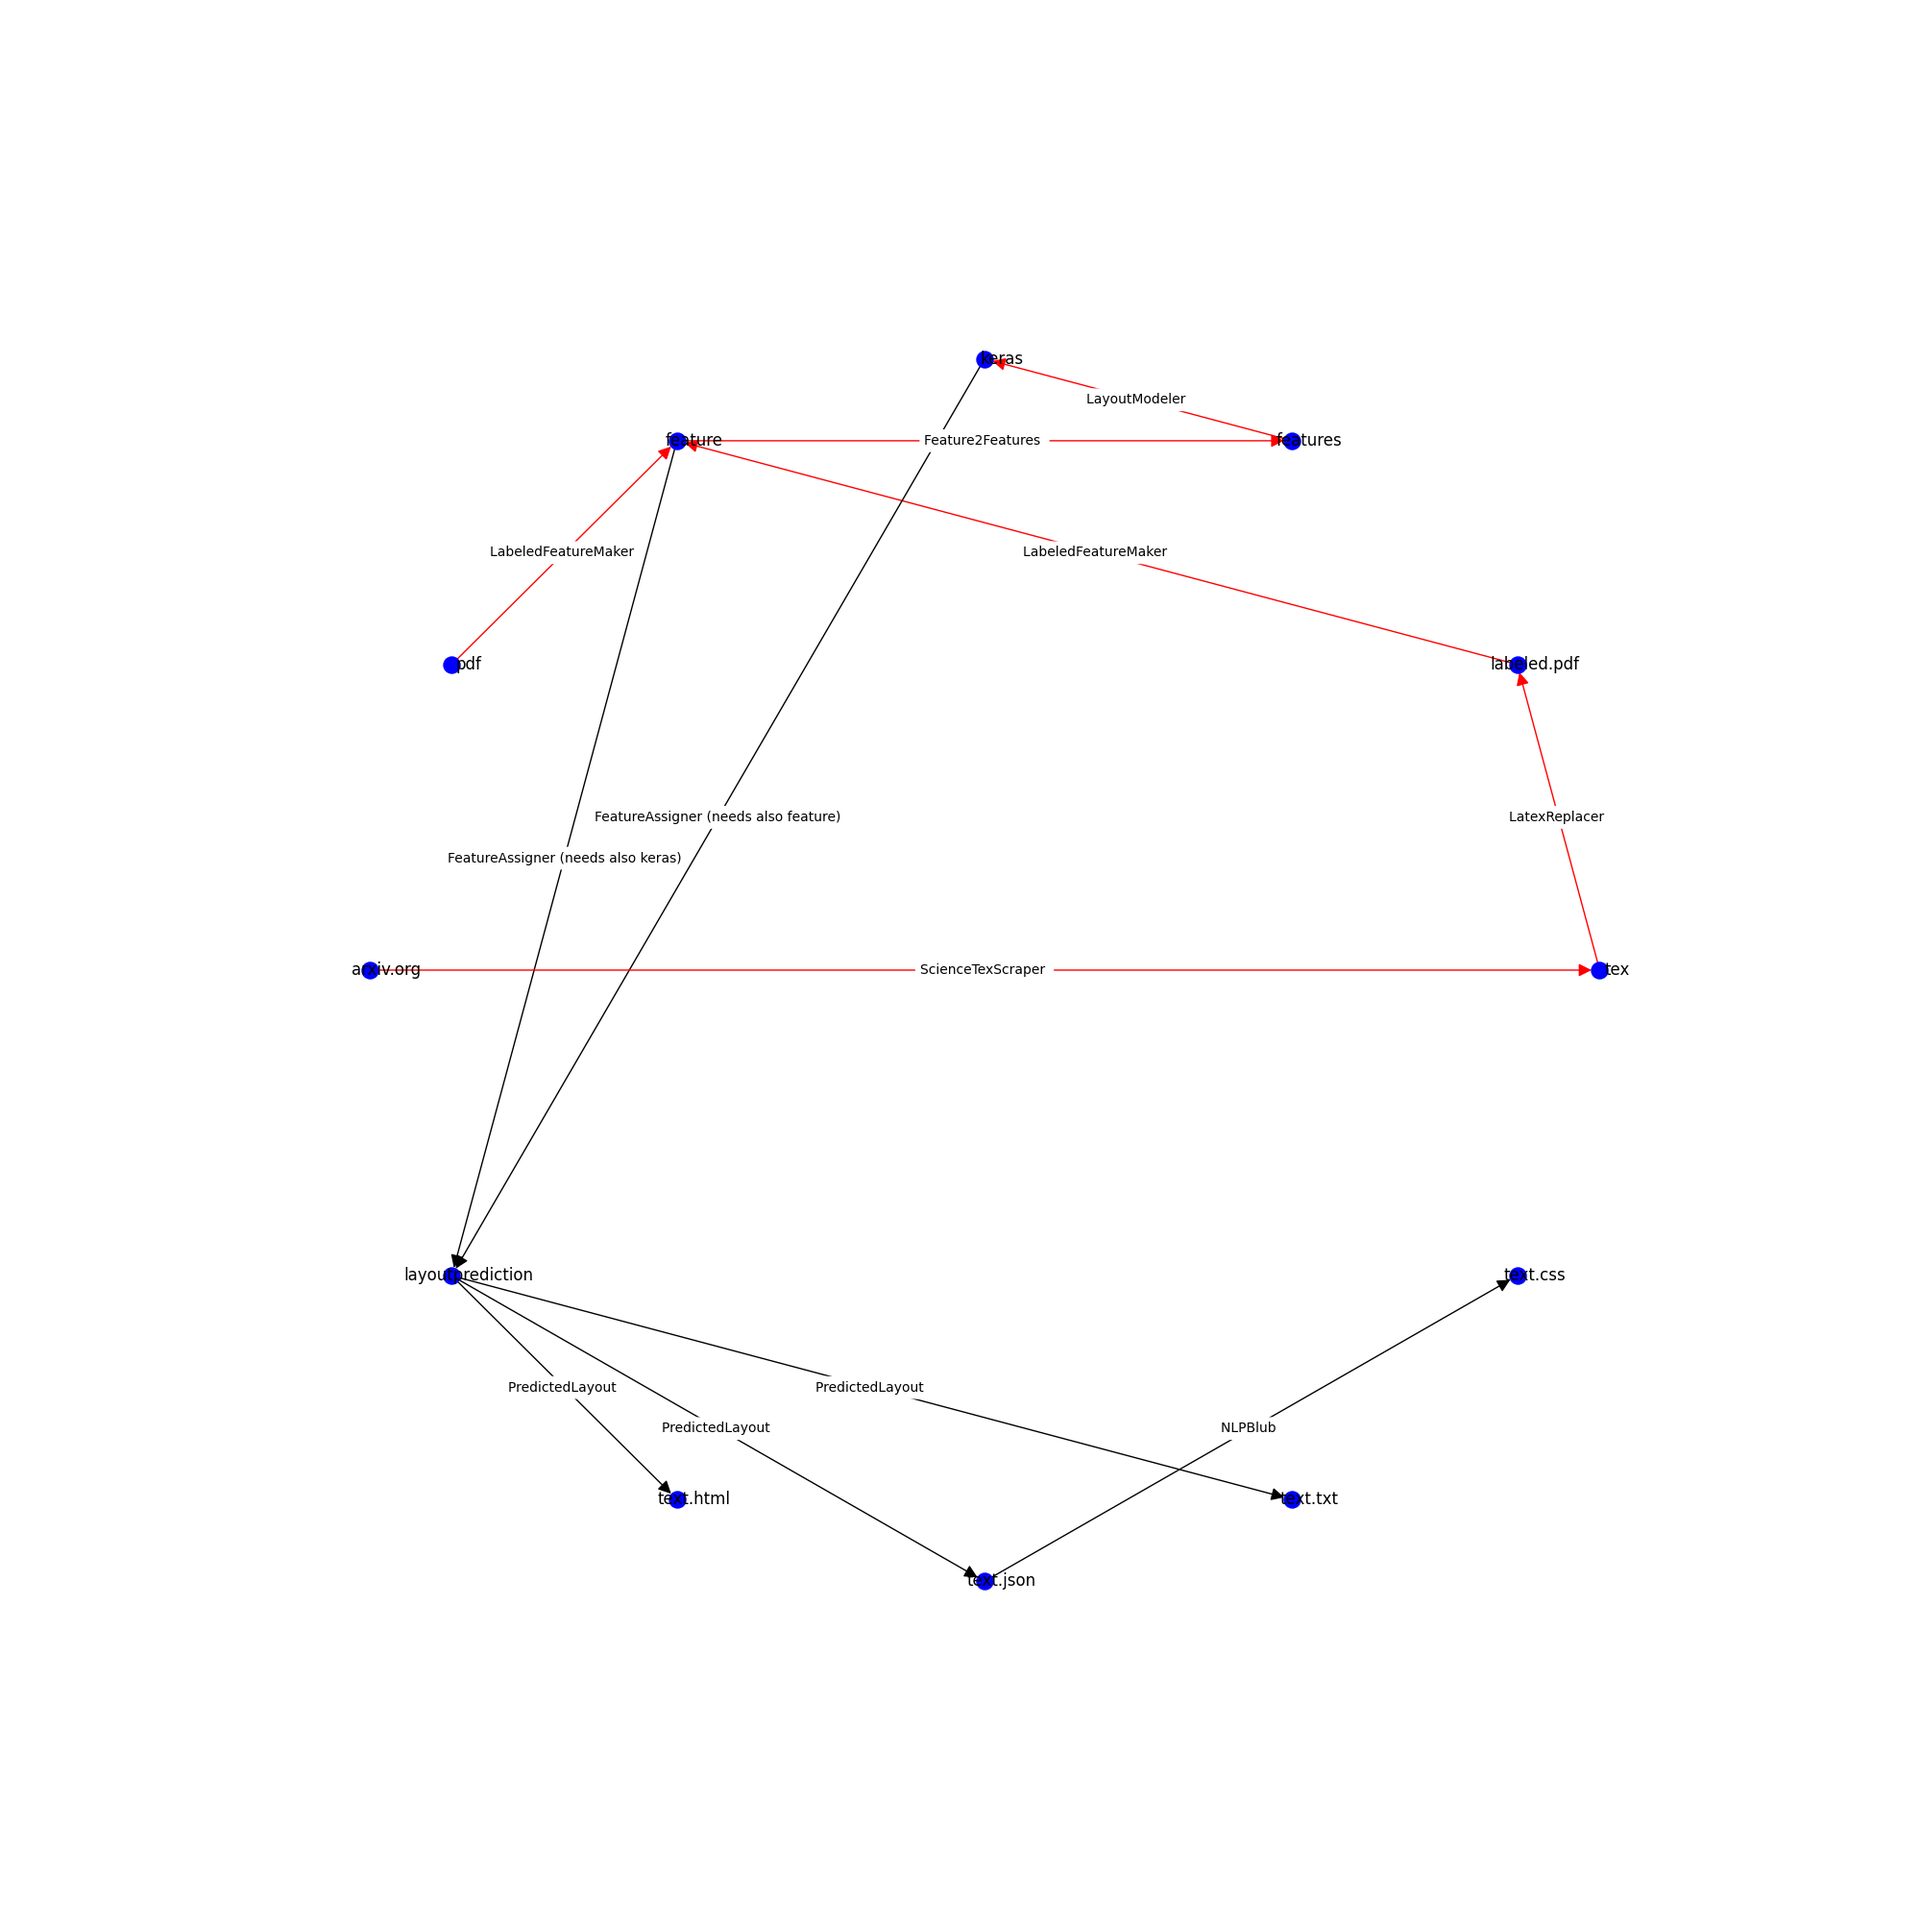
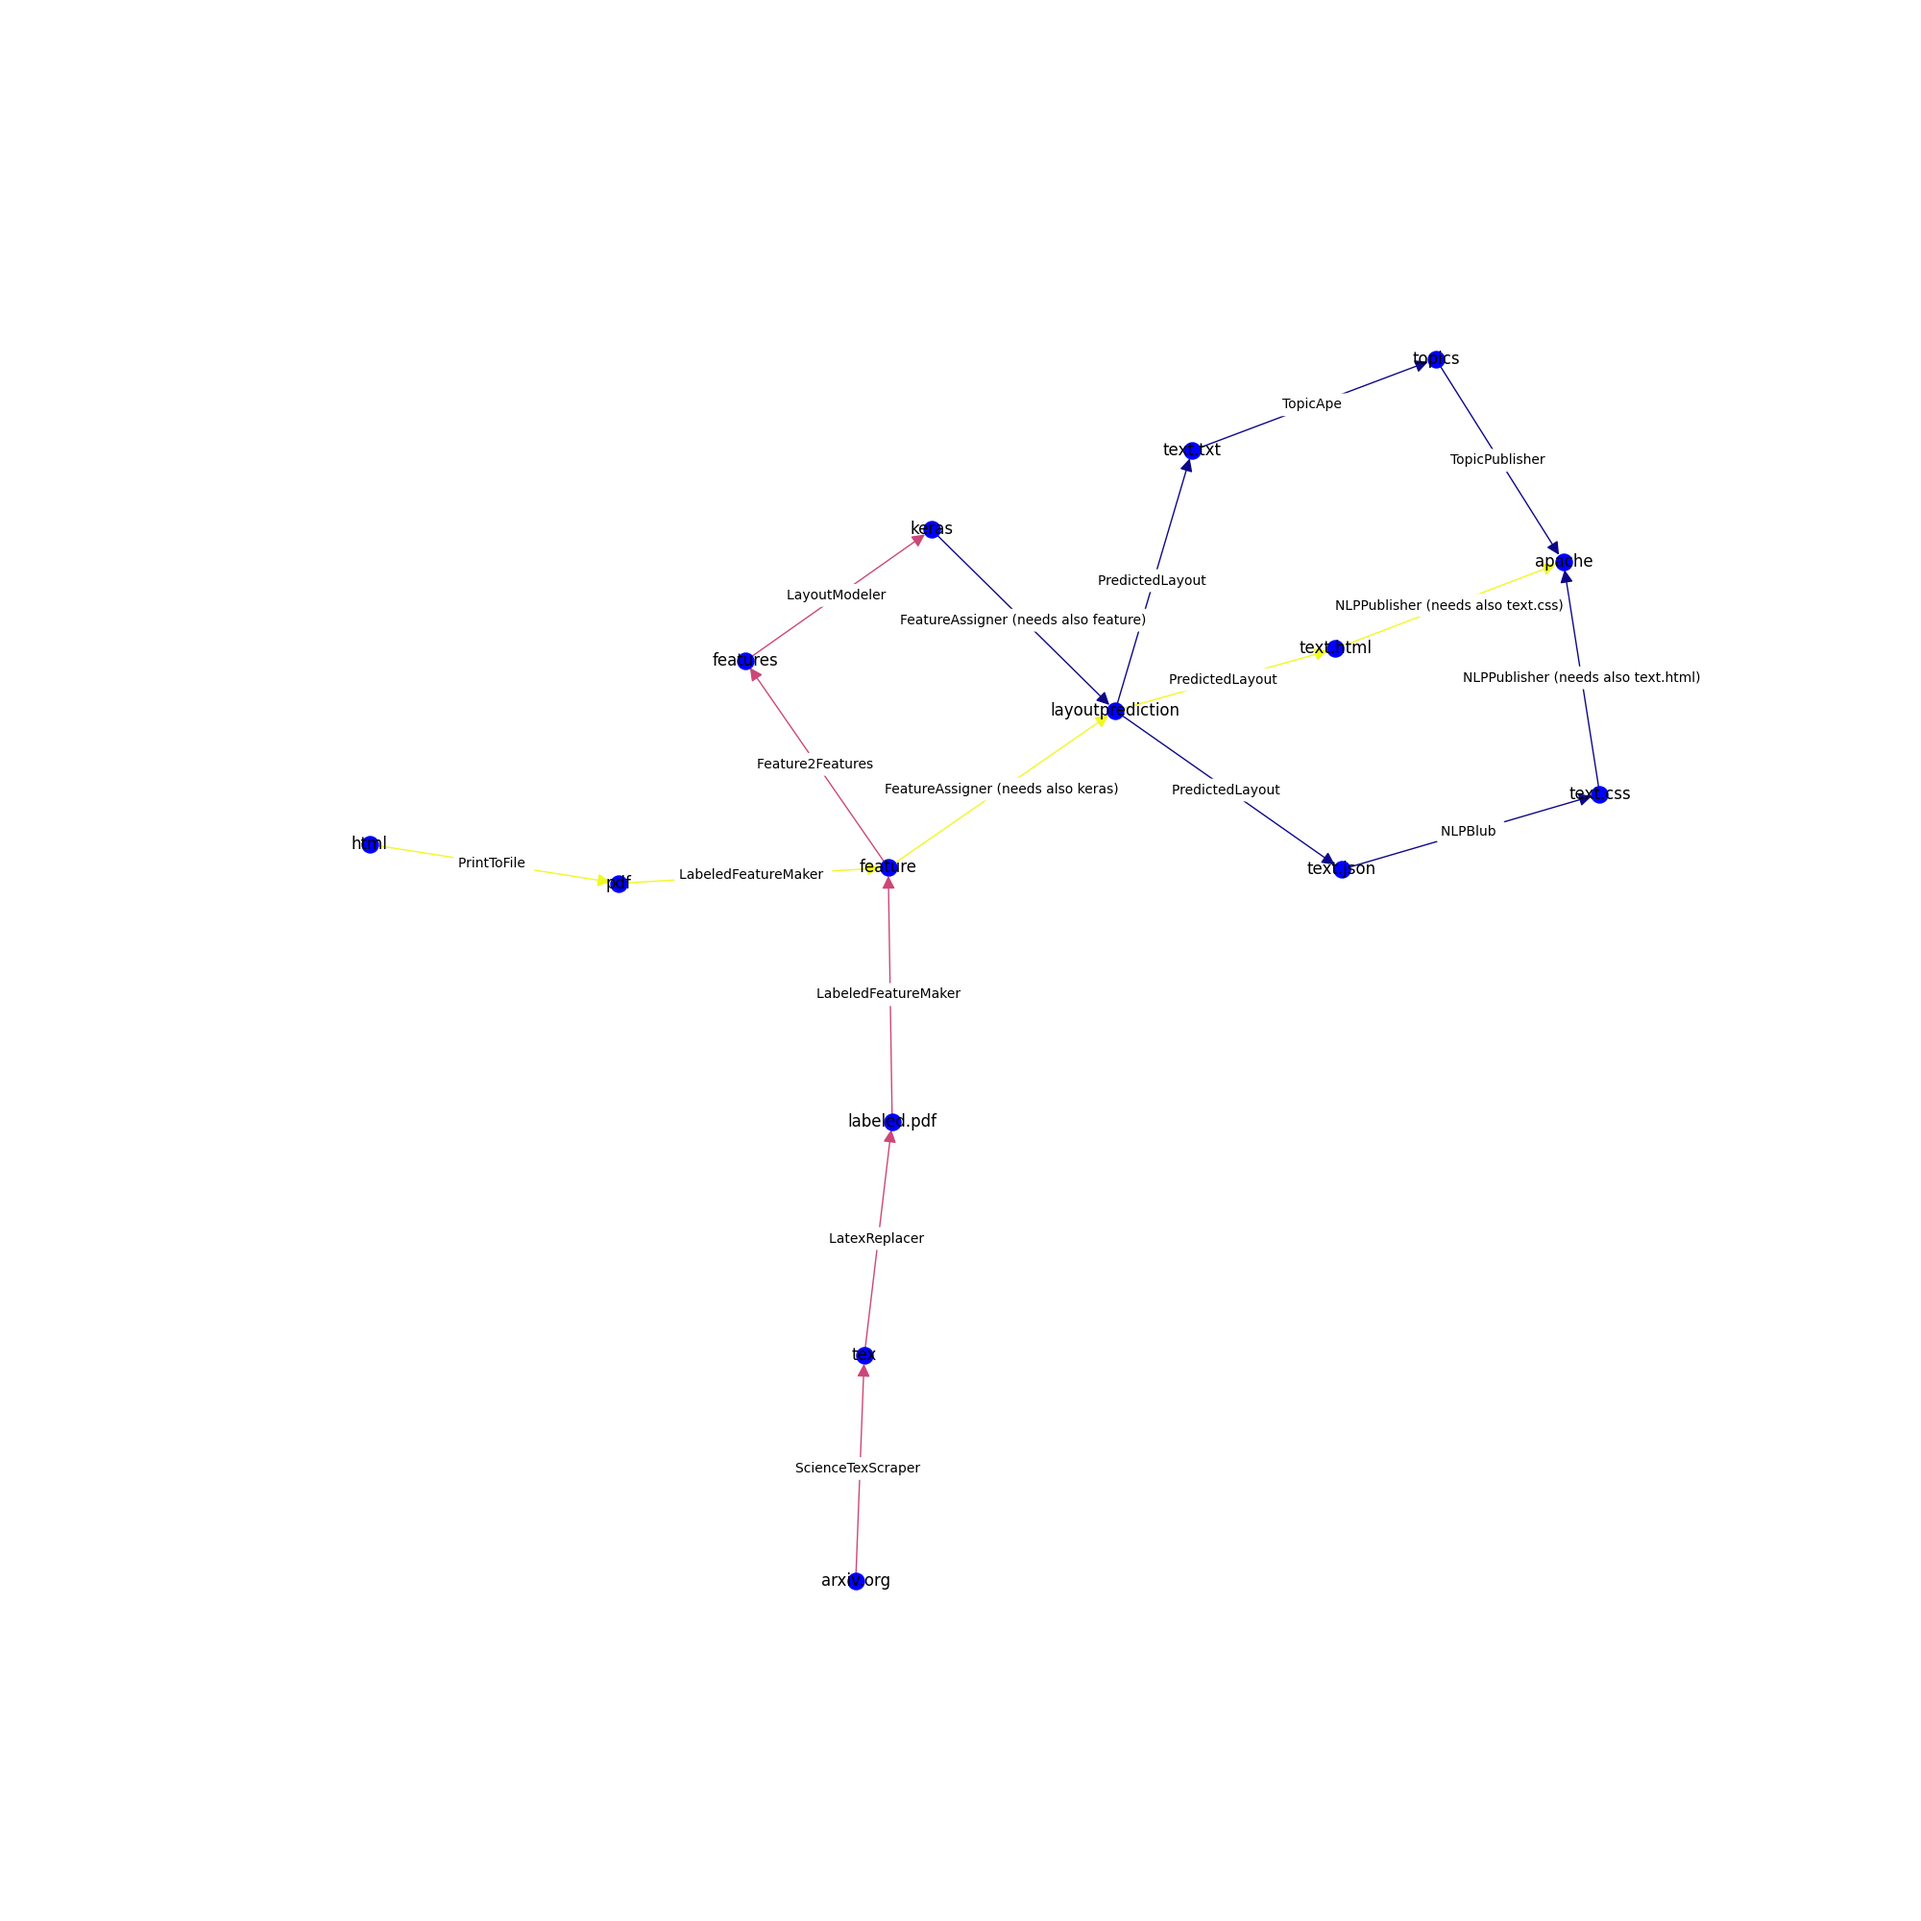
it was training on class load, wait for the pipeline

diff --git a/pathant/PathAnt.py b/pathant/PathAnt.py
@@ -24,11 +24,14 @@ class PathAnt:
     def realize_node(self, node):
         os.system(f"mkdir {node.dir}")
 
+    def make_path(self, G, source, target):
+        return nx.shortest_path(G, source, target)
+
     def __call__(self, source, target, *args, **kwargs):
-        converters_path = nx.shortest_path(self.G, source, target)
+        converters_path = self.make_path(self.G, source, target)
         logging.debug(f"found path: {converters_path}")
         pipeline = [self.G[_from][_to]['functional_object'] for _from, _to in pairwise(converters_path)]
-        return Pipeline(pipeline)
+        return Pipeline(pipeline, source, target)
 
     def info(self, path="pathant.png", pipelines_to_highlight=None):
         import pylab as plt
@@ -36,19 +39,26 @@ class PathAnt:
 
         dG = self.G.copy()
 
+        nx.set_edge_attributes(dG, 0, 'color')
+        nx.set_edge_attributes(dG, " ", 'label')
 
         if pipelines_to_highlight:
-            for pipeline, color in zip(pipelines_to_highlight, ['red', 'green', 'orange']):
-                edge_colors = [color
-                               if attrs['functional_object'] in pipeline.pipeline else 'black'
-                               for u,v, attrs  in dG.edges(data=True)]
-        else:
-            edge_colors = 'black'
+            for  color, pipeline in enumerate(pipelines_to_highlight):
+                pipe_path = self.make_path(dG, pipeline.source, pipeline.target)
+                edges = pairwise(pipe_path)
+                for u, v in edges:
+                    dG[u][v]['color'] = color + 1
+                for n in pipe_path:
+                    dG.nodes[n]['label'] =  str(pipeline)
+
+
+
+        edge_colors = nx.get_edge_attributes(dG, 'color').values()
 
         for (u, v, d) in dG.edges(data=True):
             d["functional_object"] = d['functional_object'].__class__.__name__
 
-        pos = nx.kamada_kawai_layout(dG, dist={n1:{n2:1 for n2 in dG.nodes} for n1 in dG.nodes})
+        pos = nx.nx_agraph.graphviz_layout(dG)  #nx.kamada_kawai_layout(dG)
 
         edge_labels = {(u,v): f"{a['functional_object']} " + ("(needs also " + (", ".join(a['implicite'])) +')' if 'implicite' in a else "")  for u, v, a in dG.edges(data=True)}
 
@@ -59,17 +69,17 @@ class PathAnt:
                 edge_color = edge_colors,
                 edge_labels=False,
                 arrowsize=20, label='Path Ant',
-                node_size=150, edge_cmap=plt.cm.Reds)
+                node_size=150, edge_cmap=plt.cm.plasma)
 
 
         pos_attrs = {}
         for node, coords in pos.items():
-            pos_attrs[node] = coords[0] + 0.028, coords[1]
+            pos_attrs[node] = coords[0] + 0.08, coords[1]
 
 
         nx.draw_networkx_labels(dG, pos_attrs)
         pylab.savefig(path)
-
+        plt.legend(scatterpoints = 1)
         plt.show()
 
 
@@ -105,23 +115,25 @@ class TestPathAnt(unittest.TestCase):
     def test_make_model(self):
         from layouteagle.LayoutReader.labeled_feature_maker import TrueFormatUpmarkerPDF2HTMLEX
         from layouteagle.LayoutReader.feature_label_assigner import TrueFormatUpmarkerPDF2HTMLEX
-
         from layouteagle.LayoutReader.trueformatpdf2htmlEX import TrueFormatUpmarkerPDF2HTMLEX
         from layouteagle.LayoutReader.feature_tagger import PredictedLayout
-        from layouteagle.NLP.nlp_blub import NLPBlub
-
-
-
+        from TestArchitecture.NLP.nlp_blub import NLPBlub
+        from TestArchitecture.NLP.topicape import TopicApe
+        from layouteagle.LayoutReader.HTML2PDF import PrintToFile
         from layouteagle.LayoutReader.feature2features import Feature2Features
         from layouteagle.LayoutModel.layoutmodel import LayoutModeler
+        from TestArchitecture.publisher import NLPPublisher, TopicPublisher
+
 
         ant = PathAnt()
 
         #pipe = ant("url", "tex")
         #result = list(pipe("http://arxiv.org"))
 
-        pipe = ant("arxiv.org", "keras")
-        ant.info(pipelines_to_highlight=[pipe])
+        model_pipe = ant("arxiv.org", "keras")
+        prediction_pipe = ant("html", "apache")
+
+        ant.info(pipelines_to_highlight=[model_pipe, prediction_pipe])
         list(pipe("https://arxiv.org"))
 
 

diff --git a/TestArchitecture/publisher.py b/TestArchitecture/publisher.py
@@ -1,0 +1,30 @@
+import os
+
+from pathant.Converter import converter
+from pathant.PathSpec import PathSpec
+
+
+@converter(('text.html', 'text.css'), 'apache')
+class NLPPublisher(PathSpec):
+    def __init__(self, *args, **kwargs):
+        super().__init__(*args, **kwargs)
+        pass
+
+    def __call__(self, paths, *args, **kwargs):
+        for path, meta in paths:
+            pdf_path = path + self.path_spec._to
+            yield path, meta
+
+
+
+@converter('topics', 'apache')
+class TopicPublisher(PathSpec):
+    def __init__(self, *args, **kwargs):
+        super().__init__(*args, **kwargs)
+        pass
+
+    def __call__(self, paths, *args, **kwargs):
+        for path, meta in paths:
+            pdf_path = path + self.path_spec._to
+            os.system(f"chrome --headless --print-to-pdf='{pdf_path}'")
+            yield path, meta

diff --git a/layouteagle/LatexReplacer/latex_replacer.py b/layouteagle/LatexReplacer/latex_replacer.py
@@ -229,7 +229,6 @@ class LatexReplacer(SoupReplacer):
         except:
             raise
         if clean:
-            subprocess.run(['rm', '*.labeled.*'], stdout=subprocess.DEVNULL, stderr=subprocess.DEVNULL)
             subprocess.run(['rm', '*.pdf.html'], stdout=subprocess.DEVNULL, stderr=subprocess.DEVNULL)
             subprocess.run(['rm', '*.pdf'], stdout=subprocess.DEVNULL, stderr=subprocess.DEVNULL)
             subprocess.run(['rm', '*.aux'], stdout=subprocess.DEVNULL, stderr=subprocess.DEVNULL)

diff --git a/TestArchitecture/NLP/topicape.py b/TestArchitecture/NLP/topicape.py
@@ -1,0 +1,17 @@
+import os
+
+from pathant.Converter import converter
+from pathant.PathSpec import PathSpec
+
+
+@converter('text.txt', 'topics')
+class TopicApe(PathSpec):
+    def __init__(self, *args, **kwargs):
+        super().__init__(*args, **kwargs)
+        pass
+
+    def __call__(self, paths, *args, **kwargs):
+        for path, meta in paths:
+            pdf_path = path + self.path_spec._to
+            os.system(f"chrome --headless --print-to-pdf='{pdf_path}'")
+            yield path, meta

diff --git a/layouteagle/LayoutReader/HTML2PDF.py b/layouteagle/LayoutReader/HTML2PDF.py
@@ -1,0 +1,17 @@
+import os
+
+from pathant.Converter import converter
+from pathant.PathSpec import PathSpec
+
+
+@converter('html', 'pdf')
+class PrintToFile(PathSpec):
+    def __init__(self, *args, **kwargs):
+        super().__init__(*args, **kwargs)
+        pass
+
+    def __call__(self, paths, *args, **kwargs):
+        for path, meta in paths:
+            pdf_path = path + self.path_spec._to
+            os.system(f"chrome --headless --print-to-pdf='{pdf_path}'")
+            yield path, meta

diff --git a/pathant/Pipeline.py b/pathant/Pipeline.py
@@ -1,5 +1,7 @@
 class Pipeline:
-    def __init__(self, pipeline):
+    def __init__(self, pipeline, source, target):
+        self.target = target
+        self.source = source
         self.pipeline = pipeline
 
     def __call__(self, arg):

diff --git a/README.md b/README.md
@@ -32,5 +32,7 @@ This will
 To get an html file and a coresponding css file and a layouted document object, call:
 
 ```
-layouteagle.generate_htmlcss_document(pdf_path)
 ```
+
+sudo apt-get install libgraphviz-dev
+
